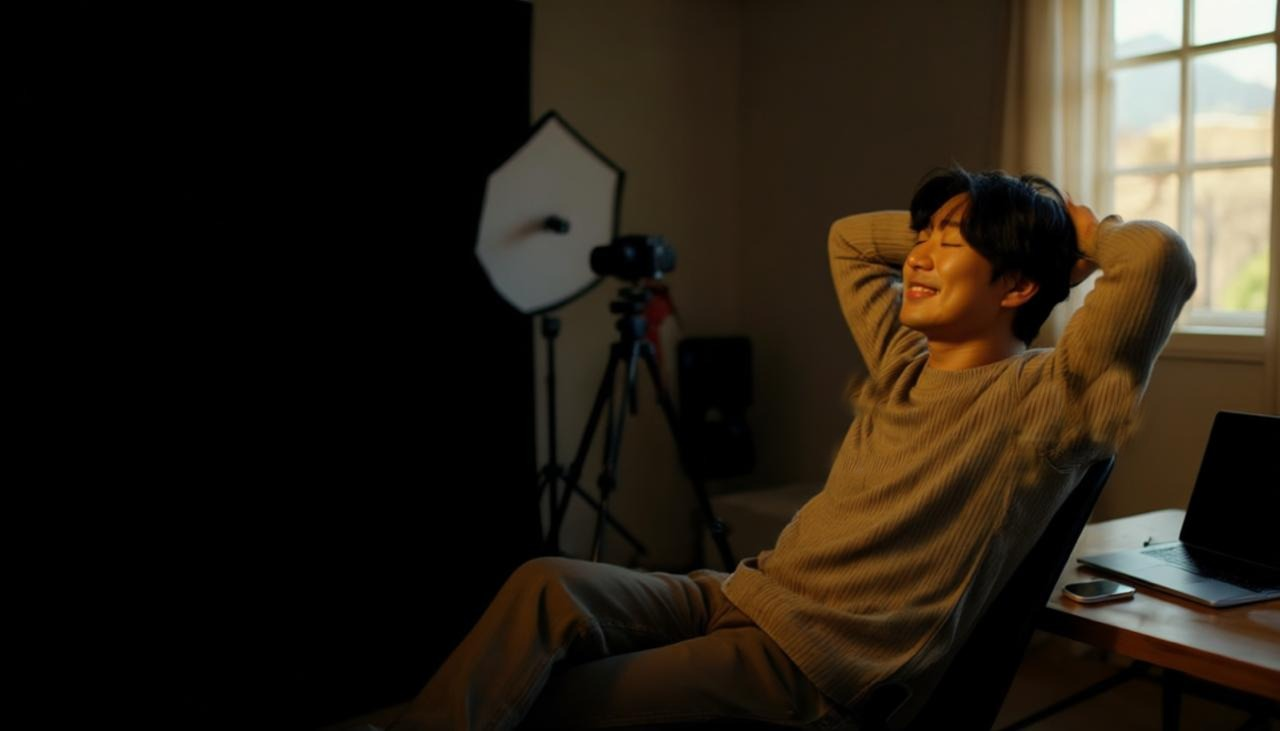
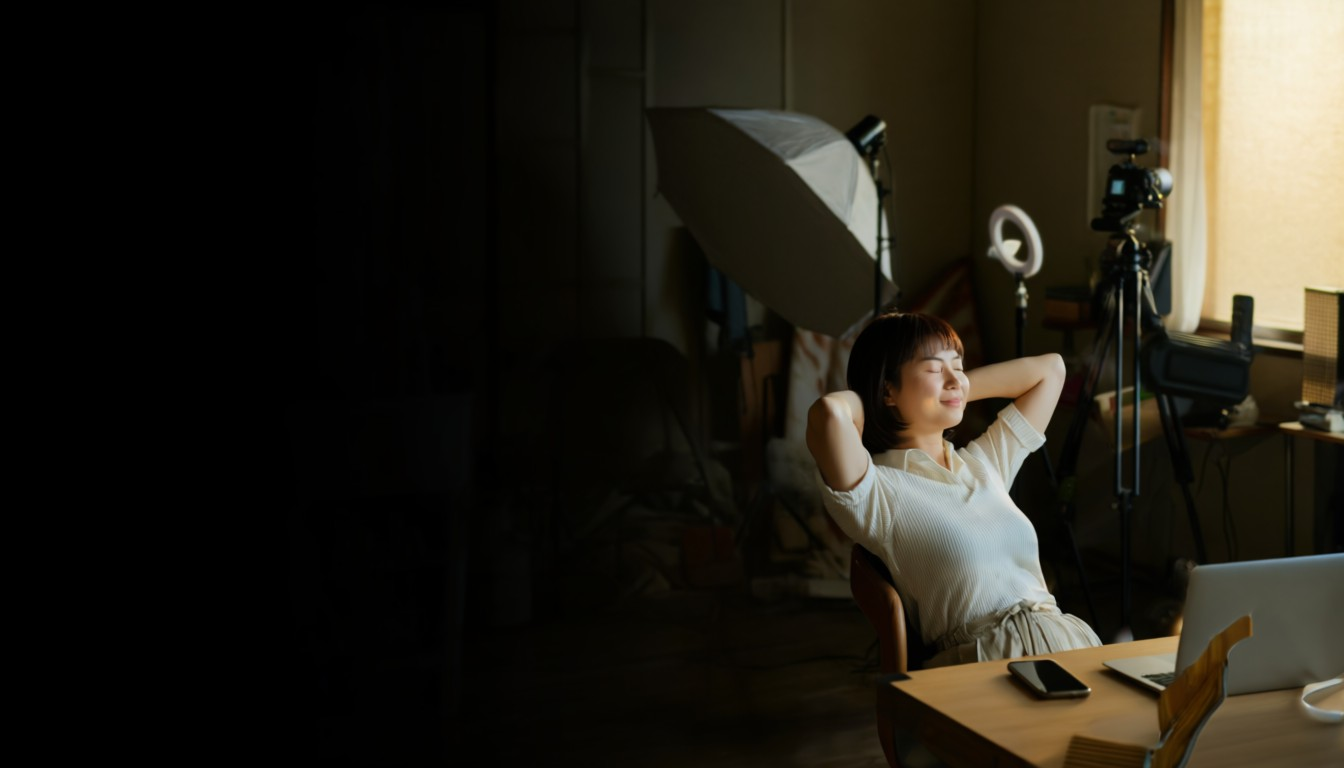
두 사이트 맨 위 사진: re-be.world = 작업실의 여성 창작자(원본 1344), be.ark.works = 뒷짐 진 남성 창작자 + 앱 영상은 바로 아래 (빠불로 11-15)

diff --git a/_src/beark.html b/_src/beark.html
@@ -215,6 +215,20 @@ footer .legal p{font-size:12px;line-height:1.7;color:var(--fg-3)}
 .lang-tg a{padding:6px 10px;border-radius:999px;color:var(--fg-2);text-decoration:none}
 .lang-tg a.on{background:var(--fg);color:var(--bg)}
 .hero-top{display:grid;grid-template-columns:1fr 290px;gap:16px;align-items:center}
+/* 11-15 빠불로: 맨 위 = 사람 사진 + 결과 한 줄(리비월드와 같은 틀). 사진 위 글자는 밝은 화면에서도 어두운 화면 색을 쓴다. 앱 영상은 바로 아래 */
+.hero.photo{position:relative;padding:0;min-height:min(86vh,760px);display:flex;align-items:center;overflow:hidden;background:#000;color:#EDEDED;
+  --bg:#000000;--fg:#EDEDED;--fg-2:#C4C4C4;--fg-3:#A1A1A1;--line:#2A2A2A;--line-2:#5A5A5A}
+.hero-bg{position:absolute;inset:0;width:100%;height:100%;object-fit:cover;object-position:70% 30%}
+.hero-shade{position:absolute;inset:0;background:linear-gradient(90deg,rgba(0,0,0,.9) 0%,rgba(0,0,0,.68) 42%,rgba(0,0,0,0) 74%)}
+.hero-copy{position:relative;width:100%;padding-top:96px;padding-bottom:96px}
+.hero.photo .hero-copy>div>*{max-width:600px}
+.hero.hero-shot{padding-top:0}.hero.hero-shot .shot{margin-top:56px}
+@media (max-width:860px){
+  .hero.photo{min-height:0;display:block}
+  .hero-bg{position:relative;height:52vh;object-position:82% 30%}
+  .hero-shade{background:linear-gradient(180deg,rgba(0,0,0,0) 30%,#000 52vh)}
+  .hero-copy{margin-top:-64px;padding-top:0;padding-bottom:48px}
+}
 .hero-planet{display:block;width:100%;aspect-ratio:1/1}
 @media (max-width:980px){.hero-top{grid-template-columns:1fr}.hero-planet{display:none}}
 .more{margin:32px 0 0;text-align:center}
@@ -248,9 +262,10 @@ footer .legal p{font-size:12px;line-height:1.7;color:var(--fg-3)}
 
 <main>
 <!--@home-->
-<div class="hero">
-  <div class="wrap">
-    <div class="hero-top">
+<div class="hero photo">
+  <img class="hero-bg" src="/beark/media/beark-hero.jpg" width="1280" height="731" alt="">
+  <div class="hero-shade"></div>
+  <div class="wrap hero-copy">
       <div>
       <span class="l2">오피스 에이전트 툴</span>
       <h1 class="d1">웹브라우징부터 문서 편집까지,<br>에이전트 자동화 솔루션 Be.Ark</h1>
@@ -261,9 +276,10 @@ footer .legal p{font-size:12px;line-height:1.7;color:var(--fg-3)}
       </div>
       <span class="l5">Beta <span class="mono" data-ver>1.9.5</span> · 무료로 시작해요 · <a href="/api/dl?os=intel" style="text-decoration:underline">인텔 맥용</a></span>
       </div>
-      <canvas class="hero-planet" data-planet data-still aria-hidden="true"></canvas>
-    </div>
-
+  </div>
+</div>
+<div class="hero hero-shot">
+  <div class="wrap">
     <div class="shot" aria-hidden="true">
       <video autoplay muted loop playsinline preload="metadata" poster="/beark/media/beark-flow-poster.jpg" width="1440" height="900">
         <source src="/beark/media/beark-flow.webm" type="video/webm">

diff --git a/beark/ko.html b/beark/ko.html
@@ -201,6 +201,20 @@ footer .legal p{font-size:12px;line-height:1.7;color:var(--fg-3)}
 .lang-tg a{padding:6px 10px;border-radius:999px;color:var(--fg-2);text-decoration:none}
 .lang-tg a.on{background:var(--fg);color:var(--bg)}
 .hero-top{display:grid;grid-template-columns:1fr 290px;gap:16px;align-items:center}
+/* 11-15 빠불로: 맨 위 = 사람 사진 + 결과 한 줄(리비월드와 같은 틀). 사진 위 글자는 밝은 화면에서도 어두운 화면 색을 쓴다. 앱 영상은 바로 아래 */
+.hero.photo{position:relative;padding:0;min-height:min(86vh,760px);display:flex;align-items:center;overflow:hidden;background:#000;color:#EDEDED;
+  --bg:#000000;--fg:#EDEDED;--fg-2:#C4C4C4;--fg-3:#A1A1A1;--line:#2A2A2A;--line-2:#5A5A5A}
+.hero-bg{position:absolute;inset:0;width:100%;height:100%;object-fit:cover;object-position:70% 30%}
+.hero-shade{position:absolute;inset:0;background:linear-gradient(90deg,rgba(0,0,0,.9) 0%,rgba(0,0,0,.68) 42%,rgba(0,0,0,0) 74%)}
+.hero-copy{position:relative;width:100%;padding-top:96px;padding-bottom:96px}
+.hero.photo .hero-copy>div>*{max-width:600px}
+.hero.hero-shot{padding-top:0}.hero.hero-shot .shot{margin-top:56px}
+@media (max-width:860px){
+  .hero.photo{min-height:0;display:block}
+  .hero-bg{position:relative;height:52vh;object-position:82% 30%}
+  .hero-shade{background:linear-gradient(180deg,rgba(0,0,0,0) 30%,#000 52vh)}
+  .hero-copy{margin-top:-64px;padding-top:0;padding-bottom:48px}
+}
 .hero-planet{display:block;width:100%;aspect-ratio:1/1}
 @media (max-width:980px){.hero-top{grid-template-columns:1fr}.hero-planet{display:none}}
 .more{margin:32px 0 0;text-align:center}
@@ -233,9 +247,10 @@ footer .legal p{font-size:12px;line-height:1.7;color:var(--fg-3)}
 </header>
 
 <main>
-<div class="hero">
-  <div class="wrap">
-    <div class="hero-top">
+<div class="hero photo">
+  <img class="hero-bg" src="/beark/media/beark-hero.jpg" width="1280" height="731" alt="">
+  <div class="hero-shade"></div>
+  <div class="wrap hero-copy">
       <div>
       <span class="l2">오피스 에이전트 툴</span>
       <h1 class="d1">웹브라우징부터 문서 편집까지,<br>에이전트 자동화 솔루션 Be.Ark</h1>
@@ -246,9 +261,10 @@ footer .legal p{font-size:12px;line-height:1.7;color:var(--fg-3)}
       </div>
       <span class="l5">Beta <span class="mono" data-ver>1.9.5</span> · 무료로 시작해요 · <a href="/api/dl?os=intel" style="text-decoration:underline">인텔 맥용</a></span>
       </div>
-      <canvas class="hero-planet" data-planet data-still aria-hidden="true"></canvas>
-    </div>
-
+  </div>
+</div>
+<div class="hero hero-shot">
+  <div class="wrap">
     <div class="shot" aria-hidden="true">
       <video autoplay muted loop playsinline preload="metadata" poster="/beark/media/beark-flow-poster.jpg" width="1440" height="900">
         <source src="/beark/media/beark-flow.webm" type="video/webm">

diff --git a/beark/index.html b/beark/index.html
@@ -201,6 +201,20 @@ footer .legal p{font-size:12px;line-height:1.7;color:var(--fg-3)}
 .lang-tg a{padding:6px 10px;border-radius:999px;color:var(--fg-2);text-decoration:none}
 .lang-tg a.on{background:var(--fg);color:var(--bg)}
 .hero-top{display:grid;grid-template-columns:1fr 290px;gap:16px;align-items:center}
+/* 11-15 빠불로: 맨 위 = 사람 사진 + 결과 한 줄(리비월드와 같은 틀). 사진 위 글자는 밝은 화면에서도 어두운 화면 색을 쓴다. 앱 영상은 바로 아래 */
+.hero.photo{position:relative;padding:0;min-height:min(86vh,760px);display:flex;align-items:center;overflow:hidden;background:#000;color:#EDEDED;
+  --bg:#000000;--fg:#EDEDED;--fg-2:#C4C4C4;--fg-3:#A1A1A1;--line:#2A2A2A;--line-2:#5A5A5A}
+.hero-bg{position:absolute;inset:0;width:100%;height:100%;object-fit:cover;object-position:70% 30%}
+.hero-shade{position:absolute;inset:0;background:linear-gradient(90deg,rgba(0,0,0,.9) 0%,rgba(0,0,0,.68) 42%,rgba(0,0,0,0) 74%)}
+.hero-copy{position:relative;width:100%;padding-top:96px;padding-bottom:96px}
+.hero.photo .hero-copy>div>*{max-width:600px}
+.hero.hero-shot{padding-top:0}.hero.hero-shot .shot{margin-top:56px}
+@media (max-width:860px){
+  .hero.photo{min-height:0;display:block}
+  .hero-bg{position:relative;height:52vh;object-position:82% 30%}
+  .hero-shade{background:linear-gradient(180deg,rgba(0,0,0,0) 30%,#000 52vh)}
+  .hero-copy{margin-top:-64px;padding-top:0;padding-bottom:48px}
+}
 .hero-planet{display:block;width:100%;aspect-ratio:1/1}
 @media (max-width:980px){.hero-top{grid-template-columns:1fr}.hero-planet{display:none}}
 .more{margin:32px 0 0;text-align:center}
@@ -233,9 +247,10 @@ footer .legal p{font-size:12px;line-height:1.7;color:var(--fg-3)}
 </header>
 
 <main>
-<div class="hero">
-  <div class="wrap">
-    <div class="hero-top">
+<div class="hero photo">
+  <img class="hero-bg" src="/beark/media/beark-hero.jpg" width="1280" height="731" alt="">
+  <div class="hero-shade"></div>
+  <div class="wrap hero-copy">
       <div>
       <span class="l2">Office agent tool</span>
       <h1 class="d1">Be.Ark: agent automation,<br>from browsing to documents</h1>
@@ -246,9 +261,10 @@ footer .legal p{font-size:12px;line-height:1.7;color:var(--fg-3)}
       </div>
       <span class="l5">Beta <span class="mono" data-ver>1.9.5</span> · Free to start · <a href="/api/dl?os=intel" style="text-decoration:underline">Intel Mac</a></span>
       </div>
-      <canvas class="hero-planet" data-planet data-still aria-hidden="true"></canvas>
-    </div>
-
+  </div>
+</div>
+<div class="hero hero-shot">
+  <div class="wrap">
     <div class="shot" aria-hidden="true">
       <video autoplay muted loop playsinline preload="metadata" poster="/beark/media/beark-flow-en-poster.jpg" width="1440" height="900">
         <source src="/beark/media/beark-flow-en.webm" type="video/webm">

diff --git a/_src/world.html b/_src/world.html
@@ -181,13 +181,13 @@ footer .links{display:flex;gap:22px;flex-wrap:wrap}
 .hero-grid{display:grid;grid-template-columns:1.1fr .9fr;gap:48px;align-items:center}
 /* 11-15 빠불로(매니챗 참고): 맨 위 = 사람 사진 + 결과 한 줄. 왼쪽 어두운 쪽에 글, 앱 영상은 바로 아래 #see */
 .hero.photo{position:relative;padding:0;min-height:min(86vh,760px);display:flex;align-items:center;overflow:hidden}
-.hero-bg{position:absolute;inset:0;width:100%;height:100%;object-fit:cover;object-position:70% 30%}
+.hero-bg{position:absolute;inset:0;width:100%;height:100%;object-fit:cover;object-position:75% 50%}
 .hero-shade{position:absolute;inset:0;background:linear-gradient(90deg,rgba(0,0,0,.88) 0%,rgba(0,0,0,.62) 38%,rgba(0,0,0,0) 70%)}
 .hero-copy{position:relative;width:100%;padding-top:96px;padding-bottom:96px}
 .hero.photo .hero-copy>*{max-width:520px}
 @media (max-width:860px){
   .hero.photo{min-height:0;display:block}
-  .hero-bg{position:relative;height:56vh;object-position:82% 30%}
+  .hero-bg{position:relative;height:56vh;object-position:72% 50%}
   .hero-shade{background:linear-gradient(180deg,rgba(0,0,0,0) 30%,var(--bg) 56vh)}
   .hero-copy{margin-top:-72px;padding-top:0;padding-bottom:56px}
 }
@@ -292,7 +292,7 @@ footer .links{display:flex;gap:22px;flex-wrap:wrap}
 <main>
 <!--@home-->
 <div class="hero photo">
-  <img class="hero-bg" src="/world/media/rebe-hero.jpg" width="1280" height="731" alt="">
+  <img class="hero-bg" src="/world/media/rebe-hero.jpg" width="1344" height="768" alt="">
   <div class="hero-shade"></div>
   <div class="wrap hero-copy">
       <span class="kicker">크리에이터를 위한 에이전트</span>

diff --git a/world/ko.html b/world/ko.html
@@ -173,13 +173,13 @@ footer .links{display:flex;gap:22px;flex-wrap:wrap}
 .hero-grid{display:grid;grid-template-columns:1.1fr .9fr;gap:48px;align-items:center}
 /* 11-15 빠불로(매니챗 참고): 맨 위 = 사람 사진 + 결과 한 줄. 왼쪽 어두운 쪽에 글, 앱 영상은 바로 아래 #see */
 .hero.photo{position:relative;padding:0;min-height:min(86vh,760px);display:flex;align-items:center;overflow:hidden}
-.hero-bg{position:absolute;inset:0;width:100%;height:100%;object-fit:cover;object-position:70% 30%}
+.hero-bg{position:absolute;inset:0;width:100%;height:100%;object-fit:cover;object-position:75% 50%}
 .hero-shade{position:absolute;inset:0;background:linear-gradient(90deg,rgba(0,0,0,.88) 0%,rgba(0,0,0,.62) 38%,rgba(0,0,0,0) 70%)}
 .hero-copy{position:relative;width:100%;padding-top:96px;padding-bottom:96px}
 .hero.photo .hero-copy>*{max-width:520px}
 @media (max-width:860px){
   .hero.photo{min-height:0;display:block}
-  .hero-bg{position:relative;height:56vh;object-position:82% 30%}
+  .hero-bg{position:relative;height:56vh;object-position:72% 50%}
   .hero-shade{background:linear-gradient(180deg,rgba(0,0,0,0) 30%,var(--bg) 56vh)}
   .hero-copy{margin-top:-72px;padding-top:0;padding-bottom:56px}
 }
@@ -283,7 +283,7 @@ footer .links{display:flex;gap:22px;flex-wrap:wrap}
 
 <main>
 <div class="hero photo">
-  <img class="hero-bg" src="/world/media/rebe-hero.jpg" width="1280" height="731" alt="">
+  <img class="hero-bg" src="/world/media/rebe-hero.jpg" width="1344" height="768" alt="">
   <div class="hero-shade"></div>
   <div class="wrap hero-copy">
       <span class="kicker">크리에이터를 위한 에이전트</span>

diff --git a/beark/formats.html b/beark/formats.html
@@ -201,6 +201,20 @@ footer .legal p{font-size:12px;line-height:1.7;color:var(--fg-3)}
 .lang-tg a{padding:6px 10px;border-radius:999px;color:var(--fg-2);text-decoration:none}
 .lang-tg a.on{background:var(--fg);color:var(--bg)}
 .hero-top{display:grid;grid-template-columns:1fr 290px;gap:16px;align-items:center}
+/* 11-15 빠불로: 맨 위 = 사람 사진 + 결과 한 줄(리비월드와 같은 틀). 사진 위 글자는 밝은 화면에서도 어두운 화면 색을 쓴다. 앱 영상은 바로 아래 */
+.hero.photo{position:relative;padding:0;min-height:min(86vh,760px);display:flex;align-items:center;overflow:hidden;background:#000;color:#EDEDED;
+  --bg:#000000;--fg:#EDEDED;--fg-2:#C4C4C4;--fg-3:#A1A1A1;--line:#2A2A2A;--line-2:#5A5A5A}
+.hero-bg{position:absolute;inset:0;width:100%;height:100%;object-fit:cover;object-position:70% 30%}
+.hero-shade{position:absolute;inset:0;background:linear-gradient(90deg,rgba(0,0,0,.9) 0%,rgba(0,0,0,.68) 42%,rgba(0,0,0,0) 74%)}
+.hero-copy{position:relative;width:100%;padding-top:96px;padding-bottom:96px}
+.hero.photo .hero-copy>div>*{max-width:600px}
+.hero.hero-shot{padding-top:0}.hero.hero-shot .shot{margin-top:56px}
+@media (max-width:860px){
+  .hero.photo{min-height:0;display:block}
+  .hero-bg{position:relative;height:52vh;object-position:82% 30%}
+  .hero-shade{background:linear-gradient(180deg,rgba(0,0,0,0) 30%,#000 52vh)}
+  .hero-copy{margin-top:-64px;padding-top:0;padding-bottom:48px}
+}
 .hero-planet{display:block;width:100%;aspect-ratio:1/1}
 @media (max-width:980px){.hero-top{grid-template-columns:1fr}.hero-planet{display:none}}
 .more{margin:32px 0 0;text-align:center}

diff --git a/beark/ko-formats.html b/beark/ko-formats.html
@@ -201,6 +201,20 @@ footer .legal p{font-size:12px;line-height:1.7;color:var(--fg-3)}
 .lang-tg a{padding:6px 10px;border-radius:999px;color:var(--fg-2);text-decoration:none}
 .lang-tg a.on{background:var(--fg);color:var(--bg)}
 .hero-top{display:grid;grid-template-columns:1fr 290px;gap:16px;align-items:center}
+/* 11-15 빠불로: 맨 위 = 사람 사진 + 결과 한 줄(리비월드와 같은 틀). 사진 위 글자는 밝은 화면에서도 어두운 화면 색을 쓴다. 앱 영상은 바로 아래 */
+.hero.photo{position:relative;padding:0;min-height:min(86vh,760px);display:flex;align-items:center;overflow:hidden;background:#000;color:#EDEDED;
+  --bg:#000000;--fg:#EDEDED;--fg-2:#C4C4C4;--fg-3:#A1A1A1;--line:#2A2A2A;--line-2:#5A5A5A}
+.hero-bg{position:absolute;inset:0;width:100%;height:100%;object-fit:cover;object-position:70% 30%}
+.hero-shade{position:absolute;inset:0;background:linear-gradient(90deg,rgba(0,0,0,.9) 0%,rgba(0,0,0,.68) 42%,rgba(0,0,0,0) 74%)}
+.hero-copy{position:relative;width:100%;padding-top:96px;padding-bottom:96px}
+.hero.photo .hero-copy>div>*{max-width:600px}
+.hero.hero-shot{padding-top:0}.hero.hero-shot .shot{margin-top:56px}
+@media (max-width:860px){
+  .hero.photo{min-height:0;display:block}
+  .hero-bg{position:relative;height:52vh;object-position:82% 30%}
+  .hero-shade{background:linear-gradient(180deg,rgba(0,0,0,0) 30%,#000 52vh)}
+  .hero-copy{margin-top:-64px;padding-top:0;padding-bottom:48px}
+}
 .hero-planet{display:block;width:100%;aspect-ratio:1/1}
 @media (max-width:980px){.hero-top{grid-template-columns:1fr}.hero-planet{display:none}}
 .more{margin:32px 0 0;text-align:center}

diff --git a/beark/ko-tutorial.html b/beark/ko-tutorial.html
@@ -201,6 +201,20 @@ footer .legal p{font-size:12px;line-height:1.7;color:var(--fg-3)}
 .lang-tg a{padding:6px 10px;border-radius:999px;color:var(--fg-2);text-decoration:none}
 .lang-tg a.on{background:var(--fg);color:var(--bg)}
 .hero-top{display:grid;grid-template-columns:1fr 290px;gap:16px;align-items:center}
+/* 11-15 빠불로: 맨 위 = 사람 사진 + 결과 한 줄(리비월드와 같은 틀). 사진 위 글자는 밝은 화면에서도 어두운 화면 색을 쓴다. 앱 영상은 바로 아래 */
+.hero.photo{position:relative;padding:0;min-height:min(86vh,760px);display:flex;align-items:center;overflow:hidden;background:#000;color:#EDEDED;
+  --bg:#000000;--fg:#EDEDED;--fg-2:#C4C4C4;--fg-3:#A1A1A1;--line:#2A2A2A;--line-2:#5A5A5A}
+.hero-bg{position:absolute;inset:0;width:100%;height:100%;object-fit:cover;object-position:70% 30%}
+.hero-shade{position:absolute;inset:0;background:linear-gradient(90deg,rgba(0,0,0,.9) 0%,rgba(0,0,0,.68) 42%,rgba(0,0,0,0) 74%)}
+.hero-copy{position:relative;width:100%;padding-top:96px;padding-bottom:96px}
+.hero.photo .hero-copy>div>*{max-width:600px}
+.hero.hero-shot{padding-top:0}.hero.hero-shot .shot{margin-top:56px}
+@media (max-width:860px){
+  .hero.photo{min-height:0;display:block}
+  .hero-bg{position:relative;height:52vh;object-position:82% 30%}
+  .hero-shade{background:linear-gradient(180deg,rgba(0,0,0,0) 30%,#000 52vh)}
+  .hero-copy{margin-top:-64px;padding-top:0;padding-bottom:48px}
+}
 .hero-planet{display:block;width:100%;aspect-ratio:1/1}
 @media (max-width:980px){.hero-top{grid-template-columns:1fr}.hero-planet{display:none}}
 .more{margin:32px 0 0;text-align:center}

diff --git a/beark/tutorial.html b/beark/tutorial.html
@@ -201,6 +201,20 @@ footer .legal p{font-size:12px;line-height:1.7;color:var(--fg-3)}
 .lang-tg a{padding:6px 10px;border-radius:999px;color:var(--fg-2);text-decoration:none}
 .lang-tg a.on{background:var(--fg);color:var(--bg)}
 .hero-top{display:grid;grid-template-columns:1fr 290px;gap:16px;align-items:center}
+/* 11-15 빠불로: 맨 위 = 사람 사진 + 결과 한 줄(리비월드와 같은 틀). 사진 위 글자는 밝은 화면에서도 어두운 화면 색을 쓴다. 앱 영상은 바로 아래 */
+.hero.photo{position:relative;padding:0;min-height:min(86vh,760px);display:flex;align-items:center;overflow:hidden;background:#000;color:#EDEDED;
+  --bg:#000000;--fg:#EDEDED;--fg-2:#C4C4C4;--fg-3:#A1A1A1;--line:#2A2A2A;--line-2:#5A5A5A}
+.hero-bg{position:absolute;inset:0;width:100%;height:100%;object-fit:cover;object-position:70% 30%}
+.hero-shade{position:absolute;inset:0;background:linear-gradient(90deg,rgba(0,0,0,.9) 0%,rgba(0,0,0,.68) 42%,rgba(0,0,0,0) 74%)}
+.hero-copy{position:relative;width:100%;padding-top:96px;padding-bottom:96px}
+.hero.photo .hero-copy>div>*{max-width:600px}
+.hero.hero-shot{padding-top:0}.hero.hero-shot .shot{margin-top:56px}
+@media (max-width:860px){
+  .hero.photo{min-height:0;display:block}
+  .hero-bg{position:relative;height:52vh;object-position:82% 30%}
+  .hero-shade{background:linear-gradient(180deg,rgba(0,0,0,0) 30%,#000 52vh)}
+  .hero-copy{margin-top:-64px;padding-top:0;padding-bottom:48px}
+}
 .hero-planet{display:block;width:100%;aspect-ratio:1/1}
 @media (max-width:980px){.hero-top{grid-template-columns:1fr}.hero-planet{display:none}}
 .more{margin:32px 0 0;text-align:center}

diff --git a/world/index.html b/world/index.html
@@ -173,13 +173,13 @@ footer .links{display:flex;gap:22px;flex-wrap:wrap}
 .hero-grid{display:grid;grid-template-columns:1.1fr .9fr;gap:48px;align-items:center}
 /* 11-15 빠불로(매니챗 참고): 맨 위 = 사람 사진 + 결과 한 줄. 왼쪽 어두운 쪽에 글, 앱 영상은 바로 아래 #see */
 .hero.photo{position:relative;padding:0;min-height:min(86vh,760px);display:flex;align-items:center;overflow:hidden}
-.hero-bg{position:absolute;inset:0;width:100%;height:100%;object-fit:cover;object-position:70% 30%}
+.hero-bg{position:absolute;inset:0;width:100%;height:100%;object-fit:cover;object-position:75% 50%}
 .hero-shade{position:absolute;inset:0;background:linear-gradient(90deg,rgba(0,0,0,.88) 0%,rgba(0,0,0,.62) 38%,rgba(0,0,0,0) 70%)}
 .hero-copy{position:relative;width:100%;padding-top:96px;padding-bottom:96px}
 .hero.photo .hero-copy>*{max-width:520px}
 @media (max-width:860px){
   .hero.photo{min-height:0;display:block}
-  .hero-bg{position:relative;height:56vh;object-position:82% 30%}
+  .hero-bg{position:relative;height:56vh;object-position:72% 50%}
   .hero-shade{background:linear-gradient(180deg,rgba(0,0,0,0) 30%,var(--bg) 56vh)}
   .hero-copy{margin-top:-72px;padding-top:0;padding-bottom:56px}
 }
@@ -283,7 +283,7 @@ footer .links{display:flex;gap:22px;flex-wrap:wrap}
 
 <main>
 <div class="hero photo">
-  <img class="hero-bg" src="/world/media/rebe-hero.jpg" width="1280" height="731" alt="">
+  <img class="hero-bg" src="/world/media/rebe-hero.jpg" width="1344" height="768" alt="">
   <div class="hero-shade"></div>
   <div class="wrap hero-copy">
       <span class="kicker">AI Agent for Creators</span>

diff --git a/world/ko-tutorial.html b/world/ko-tutorial.html
@@ -173,13 +173,13 @@ footer .links{display:flex;gap:22px;flex-wrap:wrap}
 .hero-grid{display:grid;grid-template-columns:1.1fr .9fr;gap:48px;align-items:center}
 /* 11-15 빠불로(매니챗 참고): 맨 위 = 사람 사진 + 결과 한 줄. 왼쪽 어두운 쪽에 글, 앱 영상은 바로 아래 #see */
 .hero.photo{position:relative;padding:0;min-height:min(86vh,760px);display:flex;align-items:center;overflow:hidden}
-.hero-bg{position:absolute;inset:0;width:100%;height:100%;object-fit:cover;object-position:70% 30%}
+.hero-bg{position:absolute;inset:0;width:100%;height:100%;object-fit:cover;object-position:75% 50%}
 .hero-shade{position:absolute;inset:0;background:linear-gradient(90deg,rgba(0,0,0,.88) 0%,rgba(0,0,0,.62) 38%,rgba(0,0,0,0) 70%)}
 .hero-copy{position:relative;width:100%;padding-top:96px;padding-bottom:96px}
 .hero.photo .hero-copy>*{max-width:520px}
 @media (max-width:860px){
   .hero.photo{min-height:0;display:block}
-  .hero-bg{position:relative;height:56vh;object-position:82% 30%}
+  .hero-bg{position:relative;height:56vh;object-position:72% 50%}
   .hero-shade{background:linear-gradient(180deg,rgba(0,0,0,0) 30%,var(--bg) 56vh)}
   .hero-copy{margin-top:-72px;padding-top:0;padding-bottom:56px}
 }

diff --git a/world/tutorial.html b/world/tutorial.html
@@ -173,13 +173,13 @@ footer .links{display:flex;gap:22px;flex-wrap:wrap}
 .hero-grid{display:grid;grid-template-columns:1.1fr .9fr;gap:48px;align-items:center}
 /* 11-15 빠불로(매니챗 참고): 맨 위 = 사람 사진 + 결과 한 줄. 왼쪽 어두운 쪽에 글, 앱 영상은 바로 아래 #see */
 .hero.photo{position:relative;padding:0;min-height:min(86vh,760px);display:flex;align-items:center;overflow:hidden}
-.hero-bg{position:absolute;inset:0;width:100%;height:100%;object-fit:cover;object-position:70% 30%}
+.hero-bg{position:absolute;inset:0;width:100%;height:100%;object-fit:cover;object-position:75% 50%}
 .hero-shade{position:absolute;inset:0;background:linear-gradient(90deg,rgba(0,0,0,.88) 0%,rgba(0,0,0,.62) 38%,rgba(0,0,0,0) 70%)}
 .hero-copy{position:relative;width:100%;padding-top:96px;padding-bottom:96px}
 .hero.photo .hero-copy>*{max-width:520px}
 @media (max-width:860px){
   .hero.photo{min-height:0;display:block}
-  .hero-bg{position:relative;height:56vh;object-position:82% 30%}
+  .hero-bg{position:relative;height:56vh;object-position:72% 50%}
   .hero-shade{background:linear-gradient(180deg,rgba(0,0,0,0) 30%,var(--bg) 56vh)}
   .hero-copy{margin-top:-72px;padding-top:0;padding-bottom:56px}
 }
